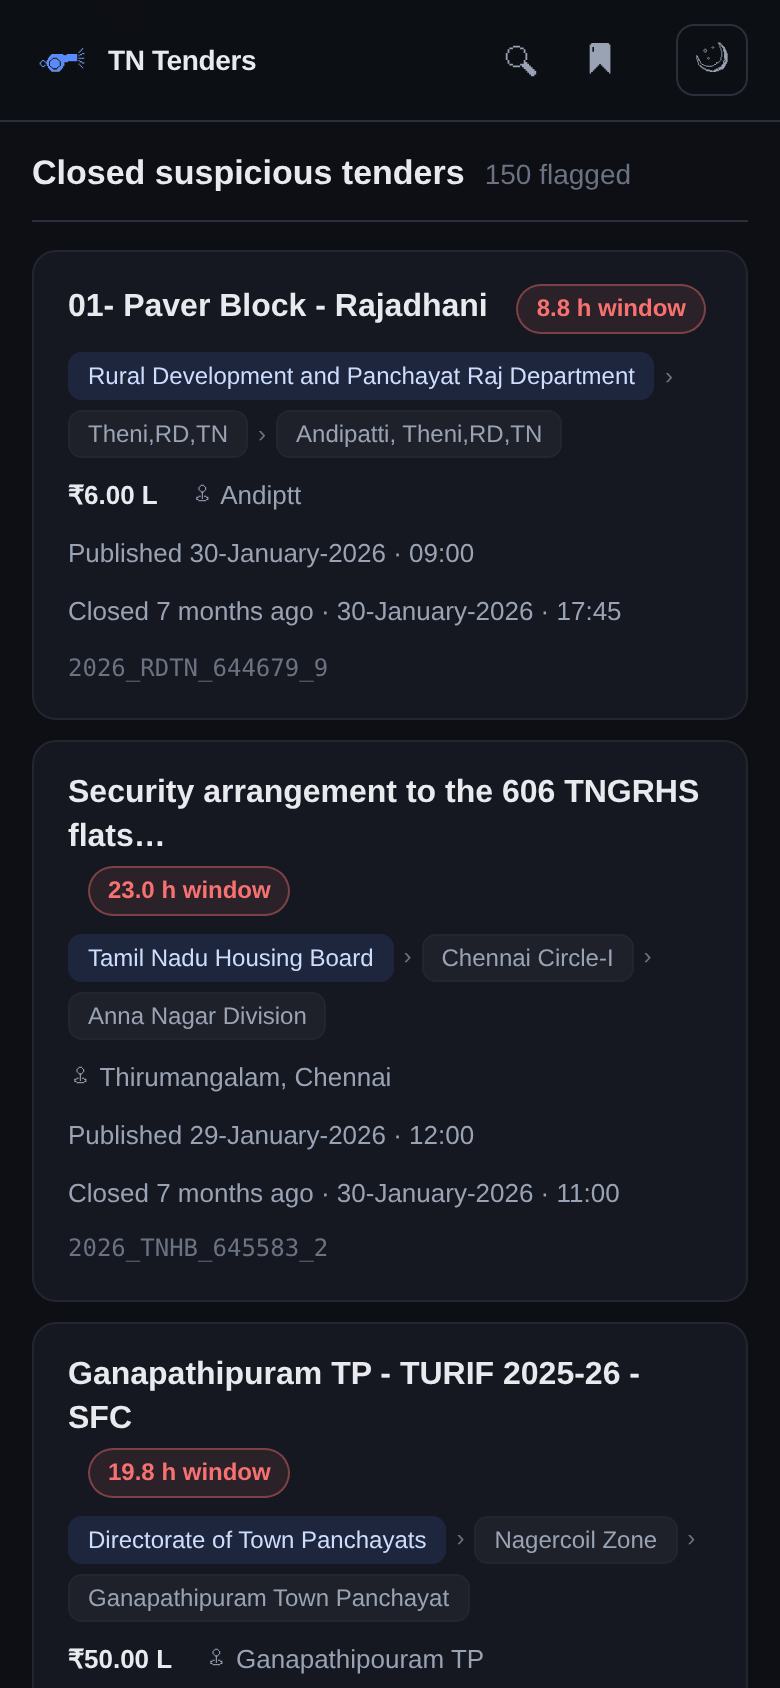
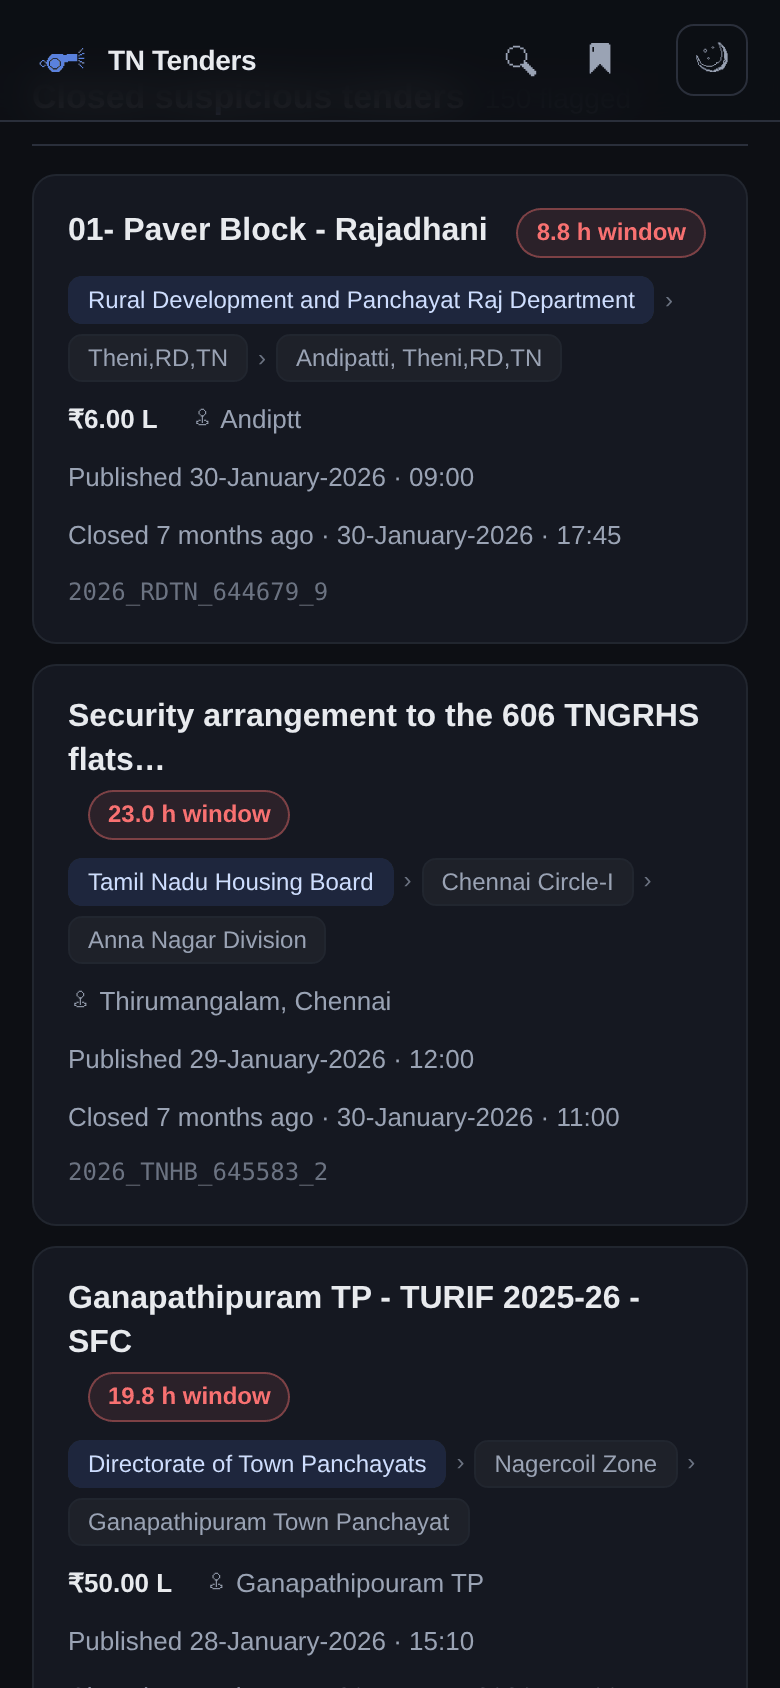
Fix subscribe failing with "database is locked", stem the search, reclaim the fold
**Subscribing was broken by two bugs, neither where it looked.**

index_fts referenced sqlite3.OperationalError in four places and never imported
sqlite3, so its lock-retry path raised NameError at exactly the moment it was
needed. The extractor took the write lock via BEGIN IMMEDIATE, blew up inside
its own exception handler before committing, and left every other writer
starved — the web app, the award sweep, and any standalone script alike. That is
why a subscribe button returned HTTP 500 while the scraper looked healthy.

The web writer also used deferred transactions. A deferred transaction that has
read and then wants to write must upgrade its lock, and SQLite refuses an
upgrade outright rather than waiting, because waiting cannot resolve it —
busy_timeout does not apply. So a 30-second timeout never engaged and the 500
was instant. The writer is autocommit now, with an explicit BEGIN IMMEDIATE for
the one multi-statement path; contention became an ordinary wait. Verified
under full load: 50/50 subscribe requests succeed, slowest 0.03s.

**Search now stems.** The FTS tokenizer was unicode61 with no stemming, so
"bollard" and "bollards" were unrelated words answering 22 and 17 tenders with
nothing to say either was partial. Worse, "drilling" found 565 tenders and
"drilled" found *zero* — the archive silently answered nothing to a perfectly
ordinary query. Porter wraps the tokenizer and reduces both spellings to one
[…]

diff --git a/src/tenders/web/static/style.css b/src/tenders/web/static/style.css
@@ -183,7 +183,12 @@ html[data-theme="light"] .theme-toggle .ic-moon{display:none}
 .site-footer p{margin:0 0 8px;max-width:760px}
 
 /* Hero + search panel */
-.hero{padding:46px 0 10px}
+/* 46px of nothing under a 60px header is most of a phone's first screenful
+   spent on margin. On a 390x844 viewport it pushed the live ticker, the archive
+   count and the search box below the fold, so the first thing a reader saw was
+   an empty rectangle. Roomy on a desktop where there is width to balance it;
+   tightened hard below (see the media query) where there is not. */
+.hero{padding:30px 0 10px}
 .hero h1{margin:0 0 8px;font-size:clamp(26px,4vw,36px);font-weight:750;letter-spacing:-.02em}
 .lead{margin:0 0 26px;color:var(--muted);font-size:17px;max-width:640px}
 
@@ -490,6 +495,16 @@ html.ms-open, html.ms-open body{overflow:hidden}
 .dlink-hist{display:inline-flex;align-items:center;gap:5px;color:var(--muted)}
 .dlink-hist:hover{color:var(--text)}
 .dash-hero{padding:40px 0 4px}
+/* Phones: the first screenful belongs to the content, not the gap above it.
+   46px of padding under a 60px header pushed the live ticker, the archive count
+   and the search box below the fold, so the first thing a reader saw was an
+   empty rectangle. Placed after .dash-hero deliberately — both base rules set
+   hero padding later in the file, so an override written earlier lost on source
+   order and silently did nothing. */
+@media(max-width:600px){
+  .hero,.dash-hero{padding:14px 0 6px}
+  .hero h1{margin-bottom:6px}
+}
 .dash-hero .lead a{font-weight:600;display:inline-flex;align-items:center;gap:4px}
 .flap-time .ic{color:var(--gold)}
 

diff --git a/src/tenders/web/watch_api.py b/src/tenders/web/watch_api.py
@@ -22,6 +22,7 @@ from __future__ import annotations
 
 import logging
 import threading
+from contextlib import contextmanager
 
 from fastapi import APIRouter, HTTPException, Request
 from fastapi.responses import JSONResponse
@@ -51,12 +52,50 @@ _local = threading.local()
 
 
 def _writer():
-    """One write connection per request thread (FastAPI runs these in a pool)."""
+    """One write connection per request thread (FastAPI runs these in a pool).
+
+    Autocommit (``isolation_level=None``), and that is the whole fix for
+    "database is locked" on subscribing.
+
+    Python's sqlite3 defaults to *deferred* transactions: it silently opens one
+    on the first INSERT, having possibly already read on the same connection.
+    A deferred transaction that has read and then wants to write must upgrade
+    its lock, and if any other process has written in between, SQLite cannot
+    grant the upgrade without breaking this connection's snapshot — so it
+    returns SQLITE_BUSY **immediately**. ``busy_timeout`` does not apply,
+    because waiting cannot resolve it. That is exactly what a subscriber saw:
+    an instant HTTP 500 despite a 30-second timeout, on a database being
+    written continuously by the scraper, the extractor and the award sweep.
+
+    In autocommit each statement takes the write lock up front, which is a
+    conflict ``busy_timeout`` *can* wait out. Multi-statement writes that need
+    to be atomic take an explicit ``BEGIN IMMEDIATE`` instead (see
+    ``_immediate``) — same reasoning, one lock, acquired first.
+    """
     conn = getattr(_local, "conn", None)
     if conn is None:
         conn = connect(cfg.db_path)
+        conn.isolation_level = None
         _local.conn = conn
+    # A previous request on this thread may have died mid-transaction; a stale
+    # open transaction here would reintroduce the upgrade deadlock for every
+    # later request on the same worker thread.
+    if conn.in_transaction:
+        conn.rollback()
     return conn
+
+
+@contextmanager
+def _immediate(conn):
+    """Run a multi-statement write under one up-front write lock."""
+    conn.execute("BEGIN IMMEDIATE")
+    try:
+        yield conn
+    except BaseException:
+        conn.rollback()
+        raise
+    else:
+        conn.commit()
 
 
 # Bounds on anything a browser can put in the database. These are not security
@@ -127,12 +166,14 @@ async def register(request: Request):
         # watches hanging off it are silently orphaned rather than moved.
         old = subscription_id(conn, replaces)
         if old is not None:
-            conn.execute("UPDATE OR IGNORE watches SET subscription_id=?"
-                         " WHERE subscription_id=?", (sub_id, old))
-            conn.execute("UPDATE OR IGNORE tender_alerts SET subscription_id=?"
-                         " WHERE subscription_id=?", (sub_id, old))
-            conn.execute("DELETE FROM push_subscriptions WHERE id=?", (old,))
-            conn.commit()
+            # One transaction: moving the watches and deleting the old row must
+            # not be separable, or a failure between them orphans them.
+            with _immediate(conn):
+                conn.execute("UPDATE OR IGNORE watches SET subscription_id=?"
+                             " WHERE subscription_id=?", (sub_id, old))
+                conn.execute("UPDATE OR IGNORE tender_alerts SET subscription_id=?"
+                             " WHERE subscription_id=?", (sub_id, old))
+                conn.execute("DELETE FROM push_subscriptions WHERE id=?", (old,))
     return {"ok": True, "watches": _watch_rows(conn, sub_id),
             "alerts": _alert_rows(conn, sub_id)}
 

diff --git a/src/tenders/index_fts.py b/src/tenders/index_fts.py
@@ -47,6 +47,7 @@ so ``text`` must stay the fourth column.
 from __future__ import annotations
 
 import logging
+import sqlite3
 
 from .config import load_config
 from .db import connect, init_db
@@ -87,7 +88,7 @@ CREATE VIRTUAL TABLE docs_fts USING fts5(
     text,
     content='{_SOURCE_VIEW}',
     content_rowid='document_id',
-    tokenize = 'unicode61 remove_diacritics 2'
+    tokenize = 'porter unicode61 remove_diacritics 2'
 )
 """
 
@@ -263,7 +264,11 @@ def _ensure_external_content(conn) -> None:
     ddl = conn.execute(
         "SELECT sql FROM sqlite_master WHERE type='table' AND name='docs_fts'"
     ).fetchone()
-    if ddl and f"content='{_SOURCE_VIEW}'" in (ddl[0] or ""):
+    sql = (ddl[0] if ddl else "") or ""
+    # `porter` is checked here too: a tokenizer cannot be altered in place, so a
+    # stemmer change is the same operation as the content change — drop and
+    # rebuild — and keying both off the stored DDL keeps it self-healing.
+    if f"content='{_SOURCE_VIEW}'" in sql and "porter" in sql:
         return
     log.info("converting docs_fts to external content (drops the duplicate text copy)")
     begin_immediate(conn)
@@ -274,6 +279,42 @@ def _ensure_external_content(conn) -> None:
     conn.execute("INSERT INTO docs_fts(docs_fts) VALUES('rebuild')")
     _set_flag(conn, _ALIGNED_KEY)
     _set_flag(conn, _EXTERNAL_KEY)
+    commit(conn)
+
+
+_TENDERS_FTS_SQL = """
+CREATE VIRTUAL TABLE tenders_fts USING fts5(
+    tender_id UNINDEXED,
+    title,
+    work_description,
+    organisation_chain,
+    location,
+    reference_number,
+    tokenize = 'porter unicode61 remove_diacritics 2'
+)
+"""
+
+
+def _ensure_tenders_tokenizer(conn) -> None:
+    """Rebuild tenders_fts if it predates the Porter stemmer.
+
+    FTS5 tokenizers are fixed at creation, so adding stemming means dropping the
+    index and building it again — there is no ALTER. Detected from the stored
+    DDL rather than a flag so that any database, however old, repairs itself on
+    the next indexing pass. The watermark is cleared so the sync that follows
+    treats every tender as unseen.
+    """
+    ddl = conn.execute(
+        "SELECT sql FROM sqlite_master WHERE type='table' AND name='tenders_fts'"
+    ).fetchone()
+    if ddl and "porter" in ((ddl[0] or "")):
+        return
+    log.info("rebuilding tenders_fts with the porter stemmer "
+             "(searches for 'bollard' and 'bollards' will converge)")
+    begin_immediate(conn)
+    conn.execute("DROP TABLE IF EXISTS tenders_fts")
+    conn.execute(_TENDERS_FTS_SQL)
+    conn.execute("DELETE FROM fts_state WHERE key = ?", (_TENDERS_WATERMARK_KEY,))
     commit(conn)
 
 
@@ -390,6 +431,7 @@ def rebuild_fts(db_path=None, *, full: bool = False) -> dict:
     conn = open_writer(db_path)
     try:
         _ensure_state_table(conn)
+        _ensure_tenders_tokenizer(conn)
         _ensure_external_content(conn)
 
         begin_immediate(conn)

diff --git a/src/tenders/db.py b/src/tenders/db.py
@@ -265,6 +265,14 @@ CREATE INDEX IF NOT EXISTS idx_alerts_sub ON tender_alerts(subscription_id);
 CREATE INDEX IF NOT EXISTS idx_alerts_tender ON tender_alerts(tender_id);
 
 -- FTS5 over tender metadata (external content -> tenders).
+-- `porter` wraps unicode61 with the Porter stemmer, so a search for "bollard"
+-- also finds "bollards" and "drilling" finds "drilled". Without it FTS5 matches
+-- whole tokens only, and the archive answered those as two unrelated searches —
+-- 22 tenders for one, 17 for the other, with no hint that either was partial.
+-- Stemming is applied to the query and the index alike, so both spellings
+-- reduce to the same term and the two searches converge.
+-- It is English-only by construction; Tamil place names and reference codes
+-- pass through unchanged, which is what we want.
 CREATE VIRTUAL TABLE IF NOT EXISTS tenders_fts USING fts5(
     tender_id UNINDEXED,
     title,
@@ -272,7 +280,7 @@ CREATE VIRTUAL TABLE IF NOT EXISTS tenders_fts USING fts5(
     organisation_chain,
     location,
     reference_number,
-    tokenize = 'unicode61 remove_diacritics 2'
+    tokenize = 'porter unicode61 remove_diacritics 2'
 );
 
 -- FTS5 over extracted document text.
@@ -281,7 +289,7 @@ CREATE VIRTUAL TABLE IF NOT EXISTS docs_fts USING fts5(
     tender_id UNINDEXED,
     filename,
     text,
-    tokenize = 'unicode61 remove_diacritics 2'
+    tokenize = 'porter unicode61 remove_diacritics 2'
 );
 """
 
